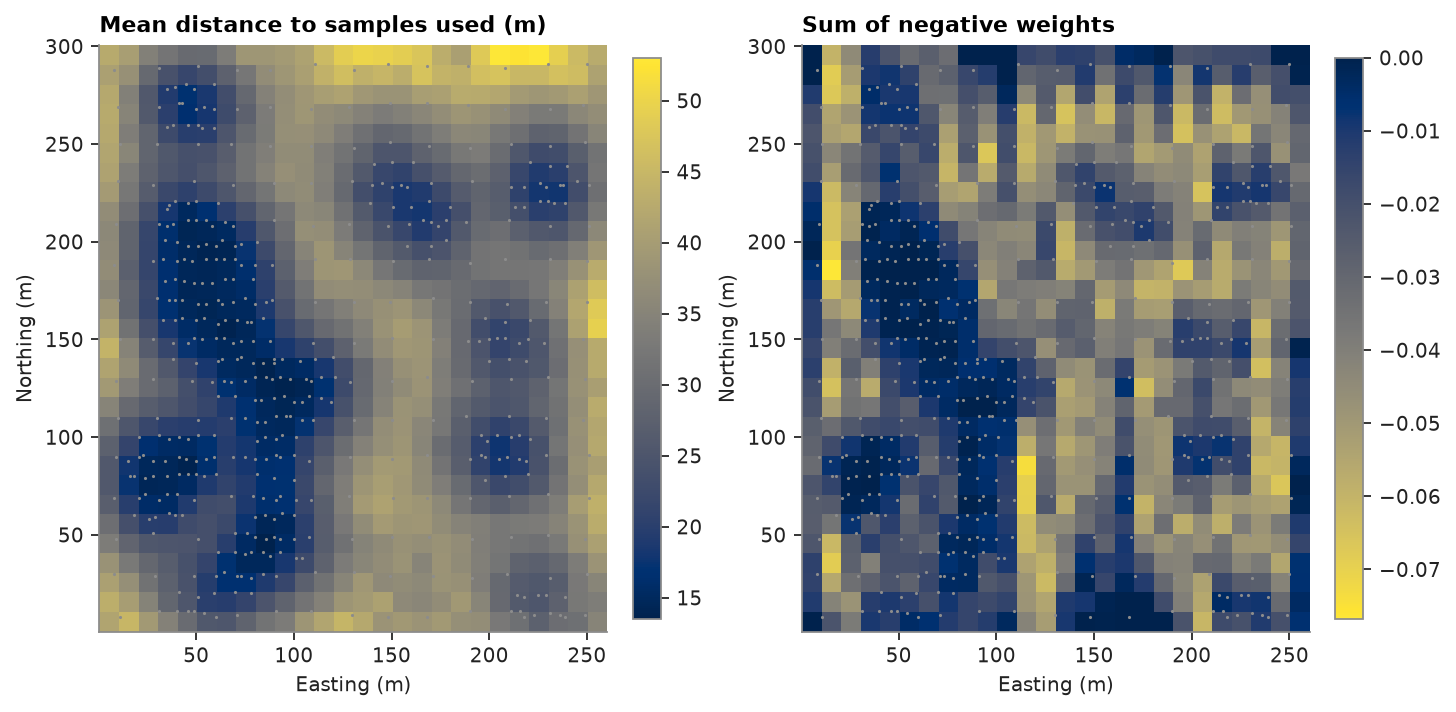
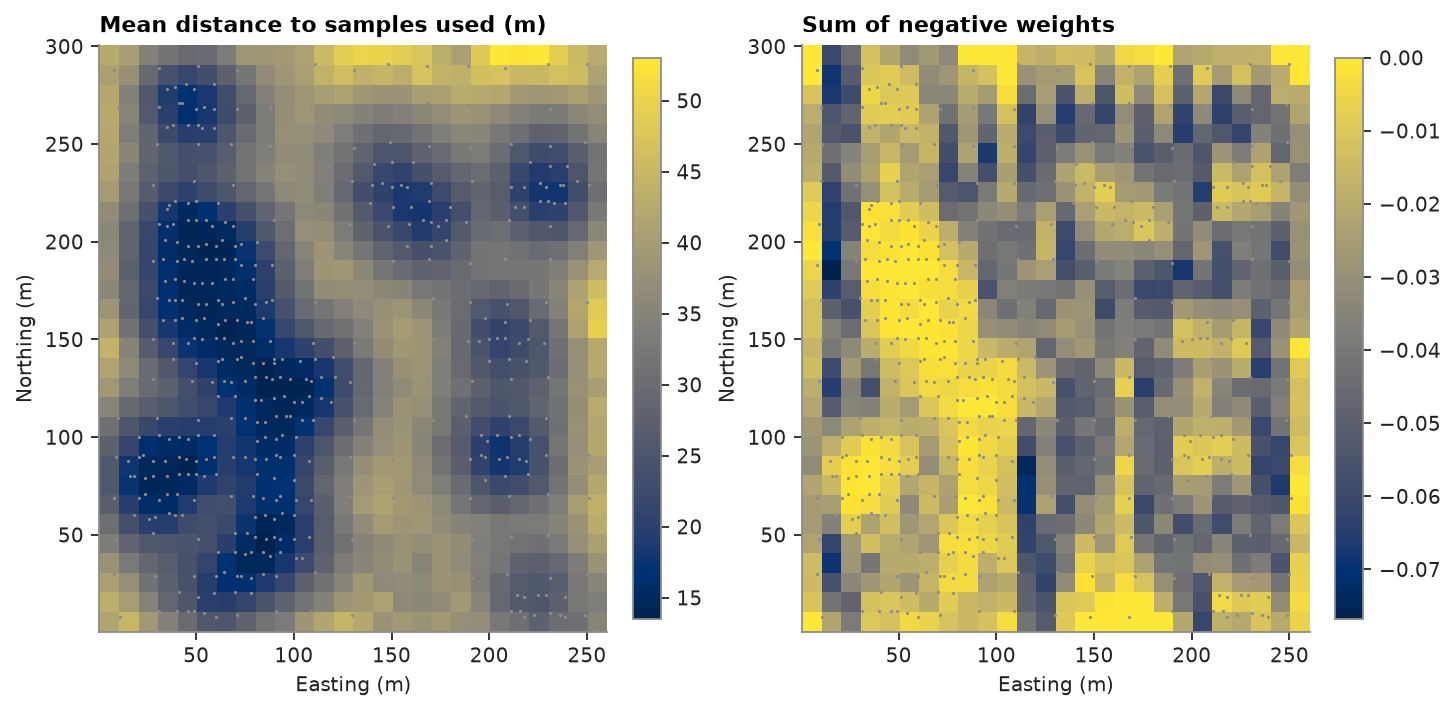
docs(examples): search calibration in chapter 18 against the exhaustive truth

Changed region(s): [[0.5254, 0.0618, 0.9581, 0.8961]]

diff --git a/examples/18-validation/example_18.py b/examples/18-validation/example_18.py
@@ -3,8 +3,9 @@
 
 Block kriging of Walker Lake `V` on 10 × 10 m blocks, then the checks a resource estimate needs: global and local
 bias against the declustered data, leave-one-out and k-fold cross-validation, kriging efficiency, slope of regression
-and the neighbourhood diagnostics per block, a classification from them and the sample spacing, and a majority filter
-that removes isolated blocks. The exhaustive grid confirms what the slope of regression predicts.
+and the neighbourhood diagnostics per block, scores for candidate searches, a classification from the diagnostics and
+the sample spacing, and a majority filter that removes isolated blocks. The exhaustive grid checks what the slope of
+regression and the search scores predict.
 """
 
 # %% [hidden]
@@ -144,15 +145,84 @@ print(
 
 # %%
 fig, axes = plt.subplots(1, 2, figsize=(9, 4.6), layout="constrained")
-for ax, key, title, cmap in (
-    (axes[0], "mean_distance", "Mean distance to samples used (m)", "cividis"),
-    (axes[1], "negative_weight_sum", "Sum of negative weights", "cividis_r"),
+for ax, key, title in (
+    (axes[0], "mean_distance", "Mean distance to samples used (m)"),
+    (axes[1], "negative_weight_sum", "Sum of negative weights"),
 ):
-    im = ax.imshow(d[key].reshape(shape), origin="lower", extent=extent, cmap=cmap)
+    im = ax.imshow(d[key].reshape(shape), origin="lower", extent=extent)
     ax.scatter(xy[:, 0], xy[:, 1], s=2, color=GREY, linewidths=0)
     map_axes(ax, title)
     fig.colorbar(im, ax=ax, shrink=0.8)
 save(fig, "neighbourhood")
+
+# %% [markdown]
+# The search is a choice too. `calibrate_search` re-estimates the blocks with each candidate search, keeping the
+# variogram and samples, and scores it: the variance of the estimates against the block variance (sill minus the
+# mean variogram within a block, nugget excluded), slope and efficiency (mean and 10th percentile), negative weights,
+# the share of blocks each pass fills, declustered cross-validation at the samples, and the global bias. With cutoffs
+# and a Hermite anamorphosis it adds tonnage and metal above each cutoff over those of the discrete Gaussian model's
+# block distribution. It picks no winner. Here the candidates differ only in `max_samples`, and the exhaustive grid
+# checks every score.
+
+# %%
+counts = (4, 8, 12, 16, 24, 32, 48)
+candidates = [
+    cs.Search(radius=80, max_samples=n, min_samples=4, rotation=(170, 0, 0), ratios=(0.5, 1.0))
+    for n in counts
+]
+anamorphosis = cs.HermiteAnamorphosis().fit(v, weights)
+scores = cs.calibrate_search(
+    kriging, candidates, blocks, weights=weights, cutoffs=[500], anamorphosis=anamorphosis
+)
+true_scores = {"slope": [], "variance": [], "tonnage": []}
+for candidate in candidates:
+    estimate = kriging.with_search(candidate).predict(blocks)
+    true_scores["slope"].append(np.polyfit(estimate, true_blocks, 1)[0])
+    true_scores["variance"].append(estimate.var() / true_blocks.var())
+    true_scores["tonnage"].append(np.mean(estimate >= 500) / np.mean(true_blocks >= 500))
+print(f"{'':7} {'slope of regression':^20} {'variance ratio':^13} {'tonnage >= 500':^13} {'negative':>8}")
+print(
+    f"{'samples':>7}"
+    + "".join(f"{h:>7}" for h in ("mean", "CV", "true", "scores", "true", "scores", "true"))
+    + "  weights"
+)
+for i, n in enumerate(counts):
+    row = (scores["slope_mean"][i], scores["cv_slope"][i], true_scores["slope"][i])
+    row += (scores["variance_ratio"][i], true_scores["variance"][i])
+    row += (scores["tonnage_ratio_500"][i], true_scores["tonnage"][i])
+    print(f"{n:7d}" + "".join(f"{x:7.2f}" for x in row) + f"{scores['negative_weight_sum'][i]:9.3f}")
+
+# %% [markdown]
+# Every score moves with the truth. More samples raise the slope, and the cross-validation slope follows the true
+# one closely; the mean predicted slope sits lower, as above. Estimates grow smoother, so the variance ratio falls
+# and fewer blocks clear 500 ppm. The true variance ratio sits higher because the blocks of this 260 × 300 m area
+# vary less than the sill implies, and the discrete Gaussian reference puts slightly fewer blocks above 500 ppm than
+# the truth. Past 16 to 24 samples the slope barely rises while the negative weights keep growing, and that trade-off
+# is the user's to settle.
+
+# %%
+fig, axes = plt.subplots(1, 3, figsize=(11, 3.4), layout="constrained")
+panels = (
+    (
+        "Slope of regression",
+        [(scores["slope_mean"], "mean predicted"), (scores["cv_slope"], "cross-validation")],
+        "slope",
+    ),
+    (
+        "Variance of the estimates / block variance",
+        [(scores["variance_ratio"], "calibrate_search")],
+        "variance",
+    ),
+    ("Tonnage above 500 ppm / reference", [(scores["tonnage_ratio_500"], "discrete Gaussian")], "tonnage"),
+)
+for ax, (title, lines, key) in zip(axes, panels, strict=True):
+    for (series, label), color in zip(lines, (ACCENT, GREY), strict=False):
+        ax.plot(counts, series, "o-", color=color, label=label, ms=3)
+    ax.plot(counts, true_scores[key], "o-", color="black", label="truth", ms=3)
+    ax.set(title=title, xlabel="max_samples", xscale="log", xticks=counts, xticklabels=counts)
+    ax.minorticks_off()
+    ax.legend()
+save(fig, "calibration")
 
 # %% [markdown]
 # Classification combines slope and efficiency with the distance to the nearest sample, from `neighborhood_stats`.

diff --git a/examples/18-validation/README.md b/examples/18-validation/README.md
@@ -2,8 +2,9 @@
 
 Block kriging of Walker Lake `V` on 10 × 10 m blocks, then the checks a resource estimate needs: global and local
 bias against the declustered data, leave-one-out and k-fold cross-validation, kriging efficiency, slope of regression
-and the neighbourhood diagnostics per block, a classification from them and the sample spacing, and a majority filter
-that removes isolated blocks. The exhaustive grid confirms what the slope of regression predicts.
+and the neighbourhood diagnostics per block, scores for candidate searches, a classification from the diagnostics and
+the sample spacing, and a majority filter that removes isolated blocks. The exhaustive grid checks what the slope of
+regression and the search scores predict.
 
 <details><summary>Python</summary>
 
@@ -194,11 +195,11 @@ negative weights    above -0.03: 433 blocks, RMSE  95.7 ppm, mean 359 ppm agains
 
 ```python
 fig, axes = plt.subplots(1, 2, figsize=(9, 4.6), layout="constrained")
-for ax, key, title, cmap in (
-    (axes[0], "mean_distance", "Mean distance to samples used (m)", "cividis"),
-    (axes[1], "negative_weight_sum", "Sum of negative weights", "cividis_r"),
+for ax, key, title in (
+    (axes[0], "mean_distance", "Mean distance to samples used (m)"),
+    (axes[1], "negative_weight_sum", "Sum of negative weights"),
 ):
-    im = ax.imshow(d[key].reshape(shape), origin="lower", extent=extent, cmap=cmap)
+    im = ax.imshow(d[key].reshape(shape), origin="lower", extent=extent)
     ax.scatter(xy[:, 0], xy[:, 1], s=2, color=GREY, linewidths=0)
     map_axes(ax, title)
     fig.colorbar(im, ax=ax, shrink=0.8)
@@ -208,6 +209,97 @@ save(fig, "neighbourhood")
 </details>
 
 ![neighbourhood](neighbourhood.png)
+
+The search is a choice too. `calibrate_search` re-estimates the blocks with each candidate search, keeping the
+variogram and samples, and scores it: the variance of the estimates against the block variance (sill minus the
+mean variogram within a block, nugget excluded), slope and efficiency (mean and 10th percentile), negative weights,
+the share of blocks each pass fills, declustered cross-validation at the samples, and the global bias. With cutoffs
+and a Hermite anamorphosis it adds tonnage and metal above each cutoff over those of the discrete Gaussian model's
+block distribution. It picks no winner. Here the candidates differ only in `max_samples`, and the exhaustive grid
+checks every score.
+
+<details><summary>Python</summary>
+
+```python
+counts = (4, 8, 12, 16, 24, 32, 48)
+candidates = [
+    cs.Search(radius=80, max_samples=n, min_samples=4, rotation=(170, 0, 0), ratios=(0.5, 1.0))
+    for n in counts
+]
+anamorphosis = cs.HermiteAnamorphosis().fit(v, weights)
+scores = cs.calibrate_search(
+    kriging, candidates, blocks, weights=weights, cutoffs=[500], anamorphosis=anamorphosis
+)
+true_scores = {"slope": [], "variance": [], "tonnage": []}
+for candidate in candidates:
+    estimate = kriging.with_search(candidate).predict(blocks)
+    true_scores["slope"].append(np.polyfit(estimate, true_blocks, 1)[0])
+    true_scores["variance"].append(estimate.var() / true_blocks.var())
+    true_scores["tonnage"].append(np.mean(estimate >= 500) / np.mean(true_blocks >= 500))
+print(f"{'':7} {'slope of regression':^20} {'variance ratio':^13} {'tonnage >= 500':^13} {'negative':>8}")
+print(
+    f"{'samples':>7}"
+    + "".join(f"{h:>7}" for h in ("mean", "CV", "true", "scores", "true", "scores", "true"))
+    + "  weights"
+)
+for i, n in enumerate(counts):
+    row = (scores["slope_mean"][i], scores["cv_slope"][i], true_scores["slope"][i])
+    row += (scores["variance_ratio"][i], true_scores["variance"][i])
+    row += (scores["tonnage_ratio_500"][i], true_scores["tonnage"][i])
+    print(f"{n:7d}" + "".join(f"{x:7.2f}" for x in row) + f"{scores['negative_weight_sum'][i]:9.3f}")
+```
+
+</details>
+
+```text
+        slope of regression  variance ratio tonnage >= 500 negative
+samples   mean     CV   true scores   true scores   true  weights
+      4   0.80   0.89   0.94   0.80   0.88   0.99   0.91    0.000
+      8   0.89   0.98   0.99   0.72   0.80   0.95   0.88   -0.000
+     12   0.92   1.01   1.02   0.69   0.75   0.91   0.84   -0.003
+     16   0.94   1.02   1.02   0.67   0.74   0.89   0.83   -0.010
+     24   0.94   1.04   1.03   0.66   0.73   0.88   0.82   -0.028
+     32   0.95   1.04   1.03   0.66   0.73   0.87   0.81   -0.046
+     48   0.95   1.05   1.04   0.65   0.72   0.85   0.79   -0.067
+```
+
+Every score moves with the truth. More samples raise the slope, and the cross-validation slope follows the true
+one closely; the mean predicted slope sits lower, as above. Estimates grow smoother, so the variance ratio falls
+and fewer blocks clear 500 ppm. The true variance ratio sits higher because the blocks of this 260 × 300 m area
+vary less than the sill implies, and the discrete Gaussian reference puts slightly fewer blocks above 500 ppm than
+the truth. Past 16 to 24 samples the slope barely rises while the negative weights keep growing, and that trade-off
+is the user's to settle.
+
+<details><summary>Python</summary>
+
+```python
+fig, axes = plt.subplots(1, 3, figsize=(11, 3.4), layout="constrained")
+panels = (
+    (
+        "Slope of regression",
+        [(scores["slope_mean"], "mean predicted"), (scores["cv_slope"], "cross-validation")],
+        "slope",
+    ),
+    (
+        "Variance of the estimates / block variance",
+        [(scores["variance_ratio"], "calibrate_search")],
+        "variance",
+    ),
+    ("Tonnage above 500 ppm / reference", [(scores["tonnage_ratio_500"], "discrete Gaussian")], "tonnage"),
+)
+for ax, (title, lines, key) in zip(axes, panels, strict=True):
+    for (series, label), color in zip(lines, (ACCENT, GREY), strict=False):
+        ax.plot(counts, series, "o-", color=color, label=label, ms=3)
+    ax.plot(counts, true_scores[key], "o-", color="black", label="truth", ms=3)
+    ax.set(title=title, xlabel="max_samples", xscale="log", xticks=counts, xticklabels=counts)
+    ax.minorticks_off()
+    ax.legend()
+save(fig, "calibration")
+```
+
+</details>
+
+![calibration](calibration.png)
 
 Classification combines slope and efficiency with the distance to the nearest sample, from `neighborhood_stats`.
 These points carry no hole ids; with drill holes, `hole_distance` measures spacing between holes instead, counting

diff --git a/examples/README.md b/examples/README.md
@@ -22,7 +22,7 @@ Walker Lake has an exhaustive grid, so every result is checked against the truth
 | 15 | [Implicit modelling](15-implicit/README.md) | Drillholes | `ImplicitModel` RBF and GP, `isosurface(closed=True)` |
 | 16 | [Exploratory data analysis](16-eda/README.md) | Drillholes | `describe`, `plot.boxplot`, `plot.cdf`, `plot.qq`, `capping`, `contact`, `swath`, `h_scatter`, `correlation` |
 | 17 | [Multivariate transforms](17-multivariate/README.md) | Geomet porphyry 1 | `PCA`, `MAF`, `StepwiseConditional`, `PPMT`, `MultivariateSimulation` |
-| 18 | [Validation and classification](18-validation/README.md) | Walker Lake | `predict(diagnostics=True)`, `cross_validate(folds=)`, `global_bias`, `classify`, `smooth_classes` |
+| 18 | [Validation and classification](18-validation/README.md) | Walker Lake | `predict(diagnostics=True)`, `cross_validate(folds=)`, `global_bias`, `calibrate_search`, `with_search`, `classify`, `smooth_classes` |
 | 19 | [Geological modelling](19-geological-model/README.md) | Drillholes, synthetic fold | `Drillholes.at` contacts, `ImplicitModel` kriging/RBF/GP, planes, lineations, gradients, GP variance |
 | 20 | [From drill holes to a classified model](20-workflow/README.md) | Drillholes | the whole chain: composites, EDA, declustering, variograms, kriging checks, SGS risk, classification, Parquet |
 | 21 | [Models larger than memory](21-large-models/README.md) | Drillholes | 20 M blocks: `BlockModelFile`, `map_blocks`, `TurningBands.simulate_to_parquet` |
